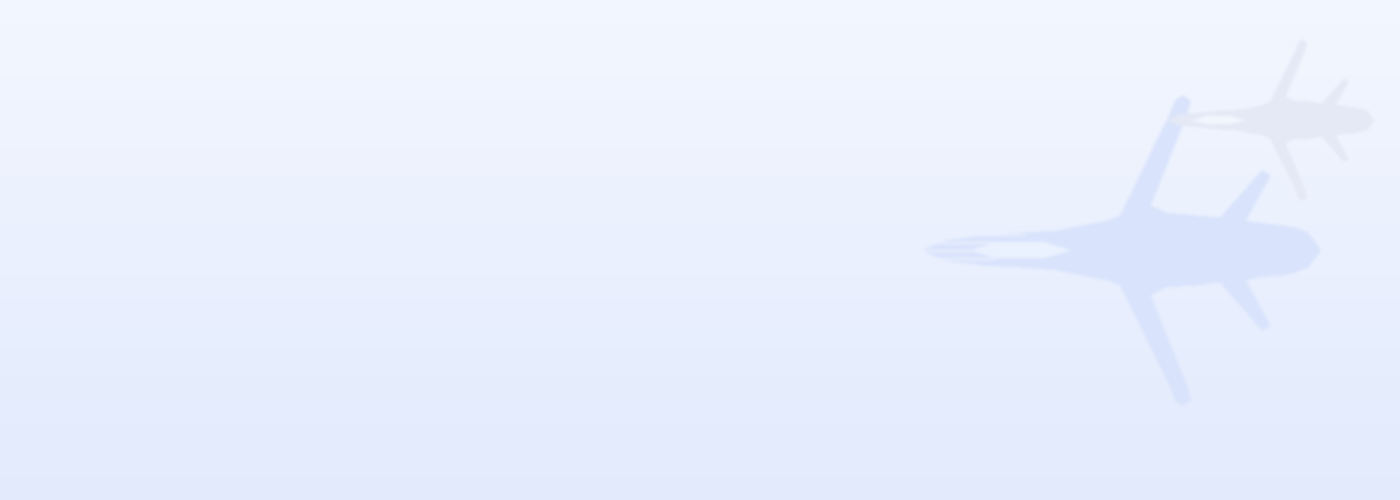
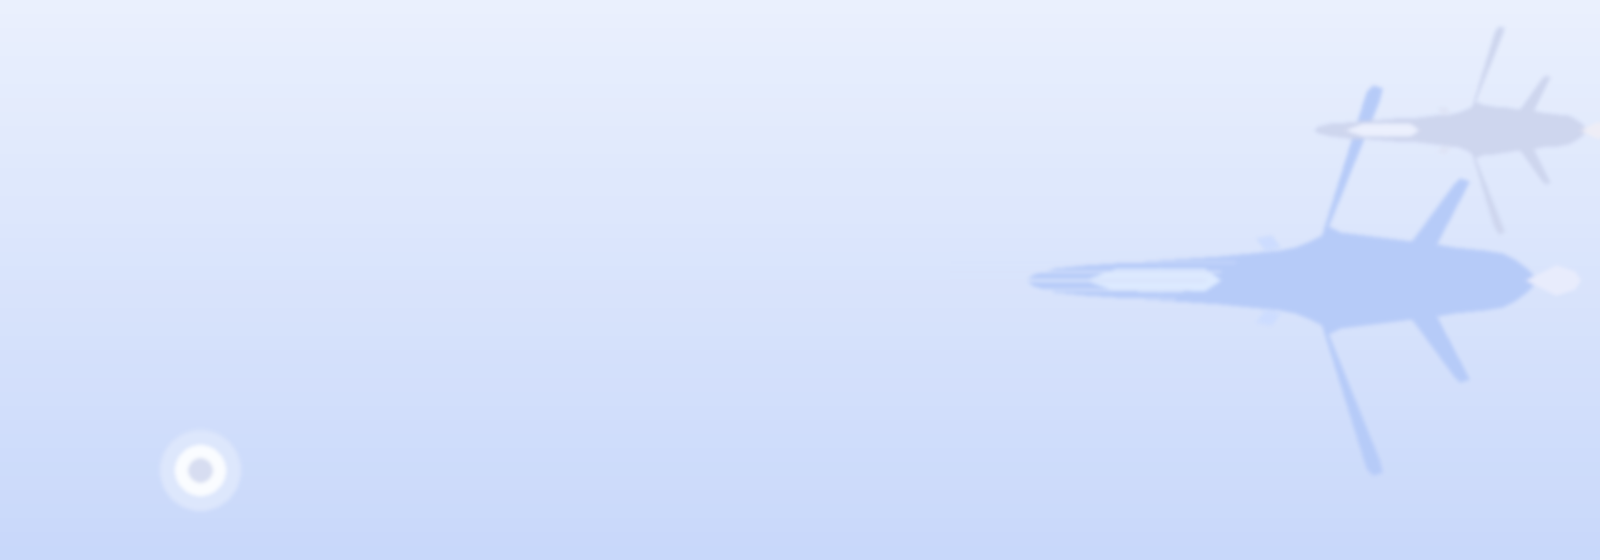
Upgrade nationality backgrounds v2: vivid colors, detailed jets, bolder elements
- Malaysia: bold flag stripes, prominent crescent+14-star, 4-jet formation, RMAF roundel
- Poland: strong white/red, large checkerboard, detailed eagle with crown, 3-jet formation
- Iraq: vivid tricolor, prominent green stars, Kufic patterns, IqAF roundel with star
- All images: 1600x560px, 2x higher opacity values, gradient fills, diagonal textures
- Card overlay reduced to 0.45 for much stronger background visibility
- Detailed FA-50 silhouettes with intakes, canopy, exhaust glow

diff --git a/public/index.html b/public/index.html
@@ -290,7 +290,7 @@ tr:hover { background: #fafbfc; }
   border: 1.5px dashed var(--gray-300); background: transparent; color: var(--gray-400); transition: all 0.2s; }
 .nat-add-btn:hover { border-color: var(--primary); color: var(--primary); }
 .nat-section { position: relative; overflow: hidden; border-radius: var(--radius); margin-bottom: 20px; min-height: 120px; background-size: cover; background-position: center; background-repeat: no-repeat; }
-.nat-section > .card { position: relative; z-index: 1; background: rgba(255,255,255,0.55); backdrop-filter: blur(1px); }
+.nat-section > .card { position: relative; z-index: 1; background: rgba(255,255,255,0.45); backdrop-filter: blur(0.5px); }
 
 /* ── Responsive: Tablet ── */
 @media (max-width: 1024px) {
